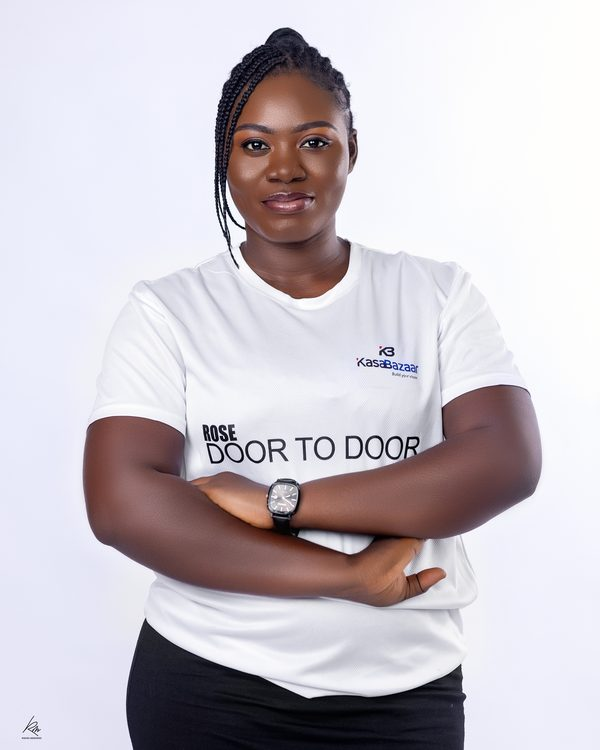
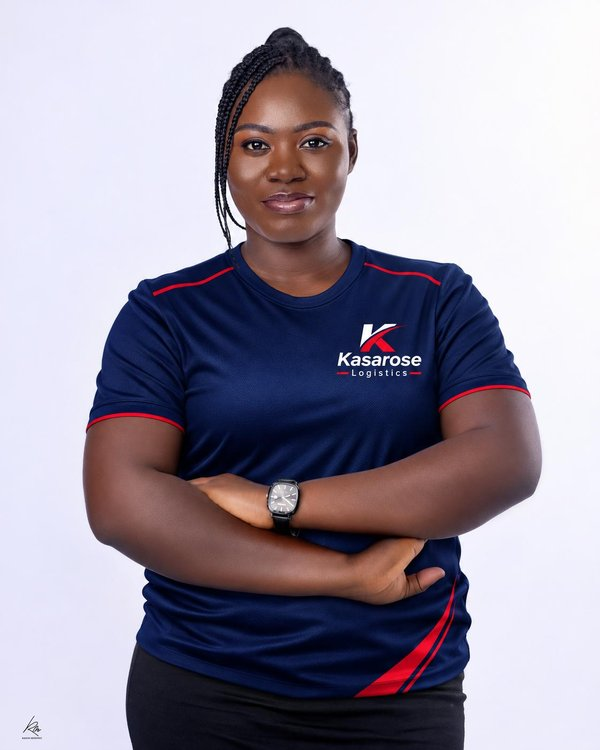
Use real staff photos on the tracking support card and About page
- Tracking page "Get live support" card: replace the placeholder
  illustration with the branded front-desk agent photo.
- About page: add an "On the US Side" block with the US warehouse team.
- Refresh esther-gyebour-fosu.jpg with the KASAROSE Logistics shirt
  (the old one showed Rose Door to Door / KasaBazaar branding).

Changed region(s): [[0.12, 0.1227, 0.9, 0.6747], [0.21, 0.7053, 0.81, 0.9507], [0.03, 0.9507, 0.06, 0.9813]]

diff --git a/public/site/css/about.css b/public/site/css/about.css
@@ -262,6 +262,34 @@
 
 .ksr-member:hover .ksr-member__photo img { transform: scale(1.04); }
 
+/* US warehouse team: a portrait photo beside a short note, under the leadership cards */
+.ksr-us-team {
+   margin-top: 64px;
+   background: var(--shade, #ecf0f1);
+   border-radius: var(--ksr-radius);
+   overflow: hidden;
+}
+
+.ksr-us-team__photo {
+   display: block;
+   width: 100%;
+   height: 100%;
+   max-height: 560px;
+   object-fit: cover;
+   object-position: 50% 15%;
+}
+
+.ksr-us-team__copy { padding: 40px 48px; }
+
+.ksr-us-team__copy h3 { margin-bottom: 14px; }
+
+.ksr-us-team__copy p { margin-bottom: 24px; }
+
+@media (max-width: 767.98px) {
+   .ksr-us-team__photo { max-height: 420px; }
+   .ksr-us-team__copy { padding: 28px 24px; }
+}
+
 .ksr-member__caption {
    position: relative;
    margin: -48px 24px 0;

diff --git a/public/site/css/extras.css b/public/site/css/extras.css
@@ -12,7 +12,7 @@
 .support-card-kicker{font-size:clamp(26px,4vw,38px);font-weight:800;letter-spacing:-.5px;color:#0a2a66;margin-bottom:18px}
 .support-card-panel{display:grid;grid-template-columns:minmax(0,5fr) minmax(0,6fr);overflow:hidden;border-radius:28px;background:#fff;border:1px solid var(--theme-border);box-shadow:0 14px 44px rgba(0,0,0,.08)}
 @media (max-width:767.98px){.support-card-panel{grid-template-columns:1fr}}
-.support-card-photo{width:100%;height:100%;min-height:240px;object-fit:cover;display:block}
+.support-card-photo{width:100%;height:100%;min-height:240px;object-fit:cover;object-position:68% 30%;display:block}
 .support-card-body{padding:32px 34px}
 .support-card-title{font-size:28px;font-weight:800;color:#111;margin-bottom:10px}
 .support-card-text{font-size:18px;color:#222;margin-bottom:18px}

diff --git a/resources/views/site/about.blade.php b/resources/views/site/about.blade.php
@@ -10,6 +10,7 @@ $photos = [
     'warehouse' => 'images/hero/shipping-usa.jpg',
     'delivery' => 'images/hero/delivery-ghana.jpg',
     'family' => 'images/hero/delivery-ghana-family.jpg',
+    'usTeam' => 'images/team/us-warehouse-team.jpg',
 ];
 $journey = [
     ['step' => '01', 'title' => 'Collected in the USA', 'photo' => 'pickup', 'text' => 'Our uniformed crew picks up from homes and businesses across seven states, or you drop off at our US facility.', 'alt' => 'A KASAROSE LOGISTICS courier collecting a parcel from a home in the United States'],
@@ -256,6 +257,23 @@ $states = ['Michigan', 'Illinois', 'Indiana', 'New York', 'New Jersey', 'Kentuck
                </figure>
             </div>
             @endforeach
+         </div>
+
+         <div class="ksr-us-team row align-items-center g-0">
+            <div class="col-md-5">
+               <img class="ksr-us-team__photo" src="{{ asset('site/'.$photos['usTeam']) }}"
+                  alt="Two members of the KASAROSE LOGISTICS team at the US warehouse with a branded shipping box"
+                  width="800" height="984" loading="lazy">
+            </div>
+            <div class="col-md-7">
+               <div class="ksr-us-team__copy">
+                  <span class="sub-title2 fadeInUp single">On the US Side</span>
+                  <h3 class="display-6">The hands that pack your boxes</h3>
+                  <p>Our US warehouse team receives every drop-off and collection, checks and labels each box,
+                     and gets it ready for the trip to Ghana &mdash; so it arrives the way you sent it.</p>
+                  <a href="{{ route('quote') }}" class="btn btn-primary">Ship With Us <i class="fa fa-arrow-right"></i><span></span></a>
+               </div>
+            </div>
          </div>
       </div>
    </section>

diff --git a/resources/views/site/partials/support-card.blade.php b/resources/views/site/partials/support-card.blade.php
@@ -11,7 +11,7 @@
    <h2 class="support-card-kicker" id="support-card-title">For your shipment issues</h2>
    <div class="support-card-panel">
       <img class="support-card-photo" src="{{ asset('site/'.config('website.support_image')) }}"
-           alt="A KASAROSE support agent on a call" width="600" height="420" loading="lazy">
+           alt="A KASAROSE LOGISTICS support agent with her phone at the front desk" width="1200" height="675" loading="lazy">
       <div class="support-card-body">
          <h3 class="support-card-title">Get live support</h3>
          <p class="support-card-text">Our team is ready to answer your shipping questions.

diff --git a/config/website.php b/config/website.php
@@ -40,9 +40,9 @@ return [
 
     /*
     | The photo on the tracking page's "Get live support" card, relative to public/site.
-    | Temporary illustration — drop the real photo in images/support and change this path.
+    | 1200x675; the agent stands right of centre, so the card crops towards her (extras.css).
     */
-    'support_image' => 'images/support/agent-placeholder.svg',
+    'support_image' => 'images/support/support-agent.jpg',
 
     /*
     | The KASAROSE customer app. The Android link is the Play testing opt-in page;
